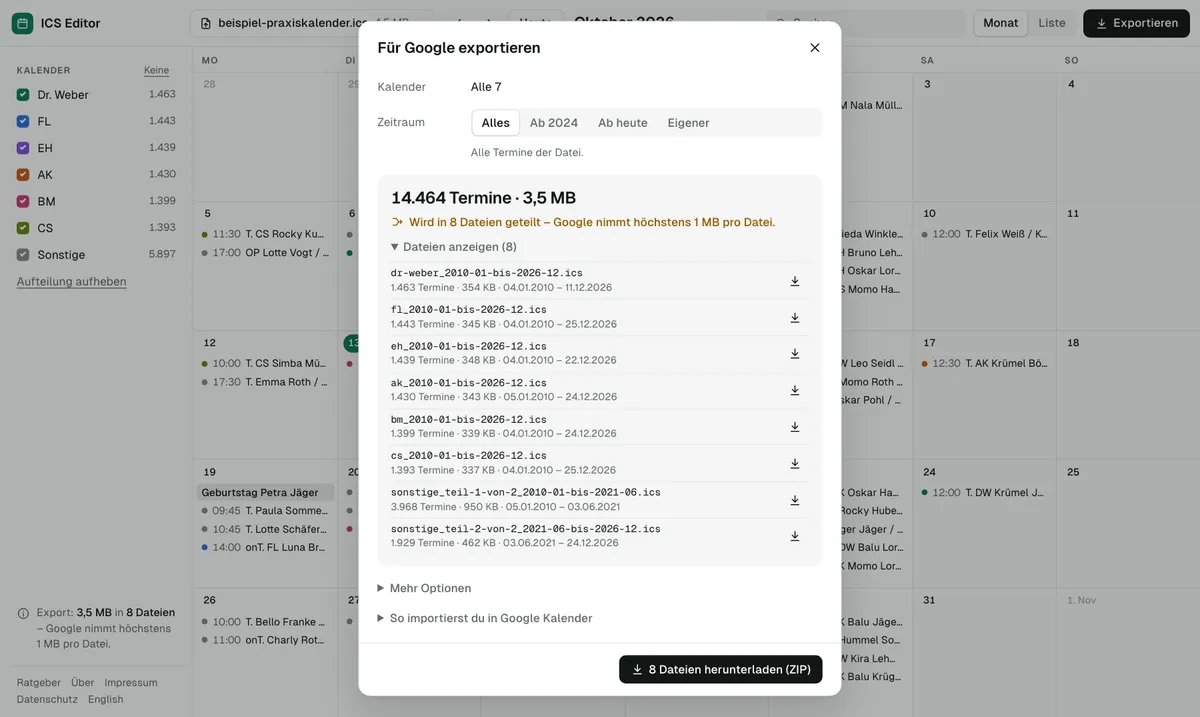
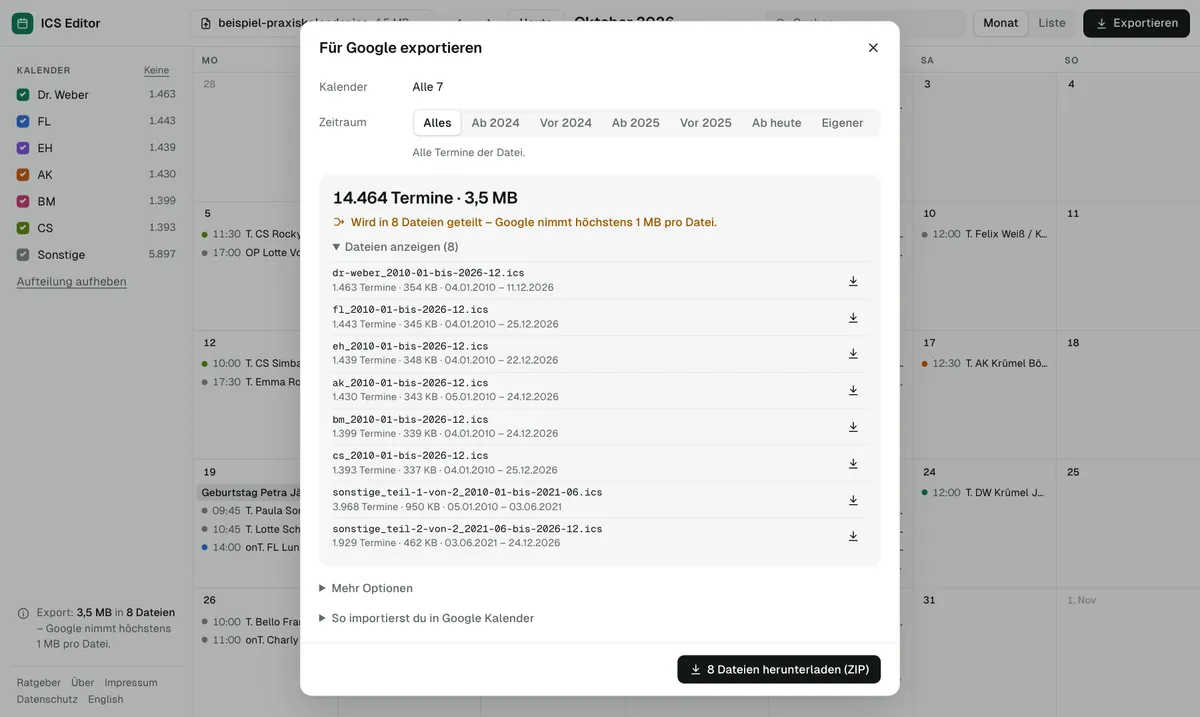
Export: höchstens 999 Termine pro Datei, Zeiträume „Ab/Vor“ Jahr
- Neue Option „Höchstens 999 Termine pro Datei“ zusätzlich zur 1-MB-Grenze (ICS und CSV, Serien bleiben zusammen)
- Zeitraum-Knöpfe: Alles · Ab 2024 · Vor 2024 · Ab 2025 · Vor 2025 · Ab heute · Eigener, jeweils mit Erklärzeile
- Export-Fenster breiter, Tests (Unit und Browser) und Bildschirmfotos aktualisiert

Changed region(s): [[0.2467, 0.0307, 0.7708, 0.9819]]

diff --git a/src/components/tool/Export.tsx b/src/components/tool/Export.tsx
@@ -8,8 +8,13 @@ import { call, download } from './client';
 import { H, Icon, useT } from './ui';
 import { Modal } from './Dialogs';
 
-export interface ExportOpts { range: 'all' | 'last3' | 'future' | 'custom'; from: string; to: string; years: number[]; admin: boolean; cancelled: boolean; dupes: boolean; phones: boolean; desc: boolean; uids: boolean; format: Format }
-export const DEFAULT_EXPORT: ExportOpts = { range: 'all', from: '', to: '', years: [], admin: true, cancelled: false, dupes: false, phones: false, desc: false, uids: false, format: 'ics' };
+/** Zeitraum: fromN/beforeN beziehen sich auf das Jahr (aktuelles Jahr − N), z. B. 2026 − 2 = „Ab 2024“ / „Vor 2024“. */
+export type Range = 'all' | 'from2' | 'before2' | 'from1' | 'before1' | 'future' | 'custom';
+const RANGES: Range[] = ['all', 'from2', 'before2', 'from1', 'before1', 'future', 'custom'];
+const rangeYear = (r: Range) => new Date().getFullYear() - (r.endsWith('2') ? 2 : 1);
+
+export interface ExportOpts { range: Range; from: string; to: string; years: number[]; max999: boolean; admin: boolean; cancelled: boolean; dupes: boolean; phones: boolean; desc: boolean; uids: boolean; format: Format }
+export const DEFAULT_EXPORT: ExportOpts = { range: 'all', from: '', to: '', years: [], max999: false, admin: true, cancelled: false, dupes: false, phones: false, desc: false, uids: false, format: 'ics' };
 
 const statusWords = (loaded: Loaded) => (loaded.suggestions.find((s) => s.kind === 'status')?.values ?? []).filter((v) => v.value !== 'STATUS:CANCELLED');
 
@@ -20,11 +25,12 @@ export function exportRequest(o: ExportOpts, sel: Selection, split: SplitConfig,
     selection: {
       ...ALL, today: sel.today, deleted: sel.deleted,
       years: o.range === 'custom' && o.years.length ? [...o.years].sort() : null, hidePast: o.range === 'future',
-      from: o.range === 'last3' ? Date.UTC(y - 2, 0, 1) : o.range === 'custom' ? parseIsoDay(o.from) : null, to: o.range === 'custom' ? parseIsoDay(o.to) : null,
+      from: o.range.startsWith('from') ? Date.UTC(rangeYear(o.range), 0, 1) : o.range === 'custom' ? parseIsoDay(o.from) : null,
+      to: o.range.startsWith('before') ? Date.UTC(rangeYear(o.range) - 1, 11, 31) : o.range === 'custom' ? parseIsoDay(o.to) : null,
       dropCancelled: o.cancelled, dropWords: o.cancelled ? statusWords(loaded).map((v) => v.value) : [], dedupe: o.dupes
     },
     clean: { ...NO_CLEAN, dropAdmin: o.admin, maskPhones: o.phones, maskEmails: o.phones, dropDescription: o.desc, newUids: o.uids },
-    split, format: o.format, hidden
+    split, format: o.format, hidden, maxEvents: o.max999 ? 999 : undefined
   };
 }
 
@@ -46,7 +52,7 @@ export function ExportDialog({ open, onClose, loaded, plan, opts, setOpts, req, 
   const files = plan ? plan.calendars.flatMap((c) => c.parts.map((p) => ({ cal: c.key, name: c.name, ...p }))) : [];
   const withEvents = plan ? plan.calendars.filter((c) => c.events > 0).length : 0;
   const tone = !plan || !plan.events ? 'bad' : files.length > withEvents ? 'warn' : 'ok';
-  const status = !plan ? '' : !plan.events ? t('k.ex.empty') : files.length > withEvents ? t('k.ex.split', { n: files.length }) : files.length === 1 ? t('k.ex.fits1') : t('k.ex.fitsN', { n: files.length });
+  const status = !plan ? '' : !plan.events ? t('k.ex.empty') : files.length > withEvents ? t(opts.max999 ? 'k.ex.split999' : 'k.ex.split', { n: files.length }) : files.length === 1 ? t('k.ex.fits1') : t('k.ex.fitsN', { n: files.length });
   const bytes = plan ? (plan.format === 'csv' ? plan.csv.bytes : plan.ics.bytes) : 0;
   const years = (() => {
     const m = new Map<number, number>();
@@ -67,7 +73,7 @@ export function ExportDialog({ open, onClose, loaded, plan, opts, setOpts, req, 
     <label class="ck"><input type="checkbox" checked={opts[k]} onChange={(e) => set(k, (e.target as HTMLInputElement).checked)} /><span>{label}</span><span class="muted">{hint}</span></label>
   );
   return (
-    <Modal open={open} onClose={onClose} title={t('k.ex.title')} foot={
+    <Modal open={open} onClose={onClose} title={t('k.ex.title')} wide foot={
       <>
         <span class="grow" />
         <button type="button" class="btn primary" disabled={!main || !!busy} onClick={main}>
@@ -87,9 +93,9 @@ export function ExportDialog({ open, onClose, loaded, plan, opts, setOpts, req, 
         <div class="xl" id="ex-range">{t('k.ex.range')}</div>
         <div class="stack-sm">
           <div class="seg" role="group" aria-labelledby="ex-range">
-            {(['all', 'last3', 'future', 'custom'] as const).map((r) => <button type="button" aria-pressed={opts.range === r} onClick={() => set('range', r)}>{t(r === 'all' ? 'k.ex.all' : r === 'last3' ? 'k.ex.last3' : r === 'future' ? 'k.ex.future' : 'k.ex.custom', { y: new Date().getFullYear() - 2 })}</button>)}
+            {RANGES.map((r) => <button type="button" aria-pressed={opts.range === r} onClick={() => set('range', r)}>{t(r === 'all' ? 'k.ex.all' : r.startsWith('from') ? 'k.ex.fromY' : r.startsWith('before') ? 'k.ex.beforeY' : r === 'future' ? 'k.ex.future' : 'k.ex.custom', { y: rangeYear(r) })}</button>)}
           </div>
-          <div class="muted small">{t(('k.ex.hint.' + opts.range) as 'k.ex.hint.all', { y: new Date().getFullYear() - 2, d: d(req.selection.today) })}</div>
+          <div class="muted small">{t(('k.ex.hint.' + opts.range.replace(/\d$/, '')) as 'k.ex.hint.all', { y: rangeYear(opts.range), last: rangeYear(opts.range) - 1, d: d(req.selection.today) })}</div>
           {opts.range === 'custom' && (
             <div class="custom">
               <div class="dates">
@@ -158,6 +164,7 @@ export function ExportDialog({ open, onClose, loaded, plan, opts, setOpts, req, 
             <div class="muted small">{opts.format === 'ics' ? t('ex.icsHint') : t('ex.csvHint')}</div>
           </div>
         </div>
+        <label class="ck"><input type="checkbox" checked={opts.max999} onChange={(e) => set('max999', (e.target as HTMLInputElement).checked)} /><span>{t('k.ex.max999')}</span><span class="muted">{t('k.ex.max999Hint')}</span></label>
         <label class="ck"><input type="checkbox" checked={opts.uids} onChange={(e) => set('uids', (e.target as HTMLInputElement).checked)} /><span>{t('k.ex.uids')}</span></label>
         <p class="muted small m0">{t('c.uidsHint')}</p>
       </details>

diff --git a/tests/e2e/tool.spec.ts b/tests/e2e/tool.spec.ts
@@ -179,6 +179,29 @@ test('Export: eigener Zeitraum mit Jahren und Datum', async ({ page }) => {
   await expect(big).not.toHaveText(oneYear!);
 });
 
+test('Export: Ab und Vor ein Jahr ergänzen sich zu allen Terminen', async ({ page }) => {
+  await sample(page);
+  await page.getByRole('button', { name: 'Exportieren' }).click();
+  const ex = page.getByRole('dialog', { name: 'Für Google exportieren' });
+  const big = ex.locator('.result .big');
+  const count = async () => Number((await big.textContent())!.match(/^([\d.]+) Termine/)![1].replace(/\./g, ''));
+  await expect(big).toContainText('Termine');
+  const all = await count();
+  const y = new Date().getFullYear() - 1;
+  await ex.getByRole('button', { name: `Ab ${y}` }).click();
+  await expect(ex.getByText(`Ab 1. Januar ${y}`)).toBeVisible();
+  await expect.poll(count).toBeLessThan(all);
+  const after = await count();
+  await ex.getByRole('button', { name: `Vor ${y}` }).click();
+  await expect(ex.getByText(`Nur Termine bis 31. Dezember ${y - 1}`)).toBeVisible();
+  await expect.poll(count).not.toBe(after);
+  const before = await count();
+  // Serien können in beide Zeiträume fallen, Einzeltermine nur in einen
+  expect(before + after).toBeGreaterThanOrEqual(all);
+  await expect(ex.getByRole('button', { name: `Ab ${y - 1}` })).toBeVisible();
+  await expect(ex.getByRole('button', { name: `Vor ${y - 1}` })).toBeVisible();
+});
+
 test('Mehrere ICS-Dateien auf einmal werden getrennte Kalender', async ({ page }) => {
   await page.goto('');
   await ready(page);
@@ -220,6 +243,23 @@ test('CSV: Semikolon, Windows-Zeichensatz, Datenschutz und zeilengenaue Fehler',
   await expect(status).not.toHaveText(before!, { timeout: 10_000 });
   await page.getByRole('button', { name: /beispiel|termine\.csv/ }).first().click();
   await expect(page.getByText(/Semikolon als Trennzeichen/)).toBeVisible();
+});
+
+test('Export: höchstens 999 Termine pro Datei', async ({ page }) => {
+  await sample(page);
+  await page.getByRole('button', { name: 'Exportieren' }).click();
+  const ex = page.getByRole('dialog', { name: 'Für Google exportieren' });
+  const zip = ex.locator('.df .btn.primary');
+  await expect(zip).toContainText(/\d+ Dateien/);
+  const before = Number((await zip.textContent())!.match(/(\d+) Dateien/)![1]);
+  await ex.getByText('Mehr Optionen').click();
+  await ex.getByRole('checkbox', { name: /Höchstens 999 Termine pro Datei/ }).check();
+  await expect(ex.getByText(/höchstens 1 MB und 999 Termine pro Datei/)).toBeVisible();
+  await expect.poll(async () => Number((await zip.textContent())!.match(/(\d+) Dateien/)![1])).toBeGreaterThan(before);
+  await ex.getByText(/Dateien anzeigen/).click();
+  for (const t of await ex.locator('.files .f-name .muted').allTextContents()) {
+    expect(Number(t.match(/^([\d.]+) Termine/)![1].replace(/\./g, ''))).toBeLessThanOrEqual(999);
+  }
 });
 
 test('Datei verlässt das Gerät nicht: keine Netzwerkanfragen beim Verarbeiten', async ({ page }) => {

diff --git a/src/i18n/ui.ts b/src/i18n/ui.ts
@@ -99,9 +99,11 @@ const de = {
   'k.ex.title': 'Für Google exportieren',
   'k.ex.range': 'Zeitraum',
   'k.ex.all': 'Alles',
-  'k.ex.last3': 'Ab {y}',
+  'k.ex.fromY': 'Ab {y}',
+  'k.ex.beforeY': 'Vor {y}',
   'k.ex.hint.all': 'Alle Termine der Datei.',
-  'k.ex.hint.last3': 'Ab 1. Januar {y} – dazu alle kommenden Termine. Ältere bleiben weg.',
+  'k.ex.hint.from': 'Ab 1. Januar {y} – dazu alle kommenden Termine. Ältere bleiben weg.',
+  'k.ex.hint.before': 'Nur Termine bis 31. Dezember {last}. Alles ab 1. Januar {y} bleibt weg.',
   'k.ex.hint.future': 'Ab heute ({d}) – nur kommende Termine. Vergangene bleiben weg.',
   'k.ex.hint.custom': 'Wähle ganze Jahre oder ein eigenes Von–Bis.',
   'k.ex.future': 'Ab heute',
@@ -128,6 +130,9 @@ const de = {
   'k.ex.phones': 'Telefonnummern und E-Mail-Adressen',
   'k.ex.desc': 'Beschreibungen',
   'k.ex.uids': 'Neue Termin-Kennungen vergeben',
+  'k.ex.max999': 'Höchstens 999 Termine pro Datei',
+  'k.ex.max999Hint': 'zusätzlich zu 1 MB',
+  'k.ex.split999': 'Wird in {n} Dateien geteilt – höchstens 1 MB und 999 Termine pro Datei.',
   'k.ex.format': 'Format',
   'k.ex.ics': 'ICS (empfohlen)',
   'k.ex.csv': 'CSV für Excel',
@@ -672,9 +677,11 @@ const en: Dict = {
   'k.ex.title': 'Export for Google',
   'k.ex.range': 'Date range',
   'k.ex.all': 'Everything',
-  'k.ex.last3': 'From {y}',
+  'k.ex.fromY': 'From {y}',
+  'k.ex.beforeY': 'Before {y}',
   'k.ex.hint.all': 'Every event in the file.',
-  'k.ex.hint.last3': 'From 1 January {y} – plus all upcoming events. Older ones are left out.',
+  'k.ex.hint.from': 'From 1 January {y} – plus all upcoming events. Older ones are left out.',
+  'k.ex.hint.before': 'Only events up to 31 December {last}. Everything from 1 January {y} is left out.',
   'k.ex.hint.future': 'From today ({d}) – upcoming events only. Past ones are left out.',
   'k.ex.hint.custom': 'Pick whole years or your own from–to.',
   'k.ex.future': 'From today',
@@ -701,6 +708,9 @@ const en: Dict = {
   'k.ex.phones': 'Phone numbers and email addresses',
   'k.ex.desc': 'Descriptions',
   'k.ex.uids': 'Assign new event IDs',
+  'k.ex.max999': 'At most 999 events per file',
+  'k.ex.max999Hint': 'in addition to 1 MB',
+  'k.ex.split999': 'Split into {n} files – at most 1 MB and 999 events per file.',
   'k.ex.format': 'Format',
   'k.ex.ics': 'ICS (recommended)',
   'k.ex.csv': 'CSV for Excel',

diff --git a/src/lib/plan.ts b/src/lib/plan.ts
@@ -413,14 +413,15 @@ function headerFor(cals: IcsCalendar[], groups: Group[], name: string) {
 }
 
 /** Packt Gruppen chronologisch in Teile, deren Dateigröße unter limit bleibt. Gruppen werden nie zerteilt. */
-export function packParts(groups: Group[], sizes: Int32Array, overhead: number, limit = PART_LIMIT): OutPart[] {
+/** Teilt nach Größe (limit) und optional nach Anzahl der Termine (maxEvents). Serien bleiben immer zusammen. */
+export function packParts(groups: Group[], sizes: Int32Array, overhead: number, limit = PART_LIMIT, maxEvents = Infinity): OutPart[] {
   const parts: OutPart[] = [];
   let cur: OutPart | null = null;
   let singles = 0;
   for (const g of groups) {
     let b = 0;
     for (const e of g.events) b += sizes[e.id];
-    if (!cur || (cur.bytes + b > limit && cur.groups.length > 0)) {
+    if (!cur || ((cur.bytes + b > limit || cur.events + g.events.length > maxEvents) && cur.groups.length > 0)) {
       cur = { index: parts.length, groups: [], events: 0, bytes: overhead, from: g.first, to: g.first };
       parts.push(cur);
       singles = 0;
@@ -441,13 +442,13 @@ export function packParts(groups: Group[], sizes: Int32Array, overhead: number, 
   return parts;
 }
 
-export function planCalendars(buckets: Bucket[], cals: IcsCalendar[], sizes: Int32Array, limit = PART_LIMIT): OutCalendar[] {
+export function planCalendars(buckets: Bucket[], cals: IcsCalendar[], sizes: Int32Array, limit = PART_LIMIT, maxEvents = Infinity): OutCalendar[] {
   const used = new Set<string>();
   return buckets.map((b) => {
     const head = headerFor(cals, b.groups, b.name);
     const tz = tzBlocksFor(cals, b.groups);
     const overhead = linesBytes(head) + tz.reduce((a, x) => a + linesBytes(x), 0) + FOOTER_BYTES;
-    const parts = packParts(b.groups, sizes, overhead, limit);
+    const parts = packParts(b.groups, sizes, overhead, limit, maxEvents);
     let slug = slugify(b.name || 'kalender');
     while (used.has(slug)) slug += '-2';
     used.add(slug);

diff --git a/src/lib/engine.ts b/src/lib/engine.ts
@@ -23,7 +23,7 @@ import { encodeWindows1252, sampleBirthdayRows, samplePracticeCsv, samplePractic
 export type Format = 'ics' | 'csv';
 
 /** hidden: Ziel-Kalender (Schlüssel), die links ausgeblendet sind – sie kommen nicht in den Export. */
-export interface PlanRequest { selection: Selection; clean: CleanOptions; split: SplitConfig; format: Format; hidden?: string[] }
+export interface PlanRequest { selection: Selection; clean: CleanOptions; split: SplitConfig; format: Format; hidden?: string[]; /** zusätzlich höchstens so viele Termine pro Datei */ maxEvents?: number }
 
 export interface PartInfo { index: number; events: number; bytes: number; from: number; to: number; file: string }
 export interface CalInfo { key: string; name: string; events: number; bytes: number; rest?: boolean; parts: PartInfo[] }
@@ -241,8 +241,9 @@ function computePlan(req: PlanRequest): Planned {
   const buckets = hide.size ? all.buckets.filter((x) => !hide.has(x.key)) : all.buckets;
   const multiMatched = all.multiMatched;
   const sz = sizes(req.clean);
-  const out = planCalendars(buckets, S.cals, sz.ics);
-  const csvOut = buckets.map((b) => { const p = packCsv(b.groups, sz.csv); return { name: b.name, key: b.key, parts: p.parts, skipped: p.skippedSeries }; });
+  const max = req.maxEvents && req.maxEvents > 0 ? req.maxEvents : Infinity;
+  const out = planCalendars(buckets, S.cals, sz.ics, PART_LIMIT, max);
+  const csvOut = buckets.map((b) => { const p = packCsv(b.groups, sz.csv, PART_LIMIT, max); return { name: b.name, key: b.key, parts: p.parts, skipped: p.skippedSeries }; });
   return { buckets, out, csvOut, removed: sel.removed, multiMatched };
 }
 

diff --git a/tests/unit/ics.test.ts b/tests/unit/ics.test.ts
@@ -89,6 +89,25 @@ describe('ICS lesen, analysieren, aufteilen', () => {
     expect(n).toBe(events.length);
   });
 
+  it('teilt auf Wunsch zusätzlich in höchstens 999 Termine pro Datei, verlustfrei', () => {
+    const groups = buildGroups(events);
+    const { buckets } = assign(select(groups, ALL).groups, NO_SPLIT, cals);
+    const sizes = cleanedSizes(events, NO_CLEAN);
+    const bySize = planCalendars(buckets, cals, sizes)[0];
+    const [out] = planCalendars(buckets, cals, sizes, PART_LIMIT, 999);
+    expect(out.parts.length).toBeGreaterThan(bySize.parts.length);
+    let n = 0;
+    for (const p of out.parts) {
+      const comp = validIcs(buildPart(p, out, NO_CLEAN, 's'));
+      const count = comp.getAllSubcomponents('vevent').length;
+      expect(count).toBe(p.events);
+      expect(count).toBeLessThanOrEqual(999);
+      expect(p.bytes).toBeLessThanOrEqual(PART_LIMIT);
+      n += count;
+    }
+    expect(n).toBe(events.length);
+  });
+
   it('behält Serien beim Jahresfilter, wenn sie im Zeitraum Termine haben', () => {
     const groups = buildGroups(events);
     const sel = select(groups, { ...ALL, years: [2024, 2025, 2026] });

diff --git a/src/lib/google-csv.ts b/src/lib/google-csv.ts
@@ -87,7 +87,7 @@ export function csvSizes(events: IcsEvent[], o: CleanOptions): Int32Array {
 export const CSV_HEADER_BYTES = utf8Len(HEADER_LINE);
 
 /** Teilt die Termine chronologisch in CSV-Teile unter der Größengrenze. */
-export function packCsv(groups: Group[], sizes: Int32Array, limit = PART_LIMIT): { parts: CsvPart[]; skippedSeries: number } {
+export function packCsv(groups: Group[], sizes: Int32Array, limit = PART_LIMIT, maxEvents = Infinity): { parts: CsvPart[]; skippedSeries: number } {
   const parts: CsvPart[] = [];
   let cur: CsvPart | null = null;
   let skippedSeries = 0;
@@ -96,7 +96,7 @@ export function packCsv(groups: Group[], sizes: Int32Array, limit = PART_LIMIT):
   evs.sort((a, b) => a.start!.wall - b.start!.wall);
   for (const e of evs) {
     const b = sizes[e.id];
-    if (!cur || cur.bytes + b > limit) {
+    if (!cur || cur.bytes + b > limit || cur.events.length >= maxEvents) {
       cur = { index: parts.length, events: [], bytes: CSV_HEADER_BYTES, from: e.start!.wall, to: e.start!.wall };
       parts.push(cur);
     }

diff --git a/src/styles/site.css b/src/styles/site.css
@@ -294,7 +294,7 @@ html.studio-mode .tool-shell { position: fixed; inset: 0; z-index: 40; height: a
 
 /* Dialoge */
 dialog.dlg { border: 1px solid var(--line); border-radius: 14px; padding: 0; background: var(--bg); color: var(--text); box-shadow: var(--shadow); width: min(580px, calc(100vw - 32px)); max-height: calc(100vh - 48px); font-size: 14px; line-height: 1.45; }
-dialog.dlg.wide { width: min(780px, calc(100vw - 32px)); }
+dialog.dlg.wide { width: min(720px, calc(100vw - 32px)); }
 dialog.dlg[open] { display: flex; flex-direction: column; }
 dialog.dlg::backdrop { background: var(--scrim); }
 .dh { display: flex; align-items: center; justify-content: space-between; gap: 12px; padding: 14px 14px 4px 22px; }
